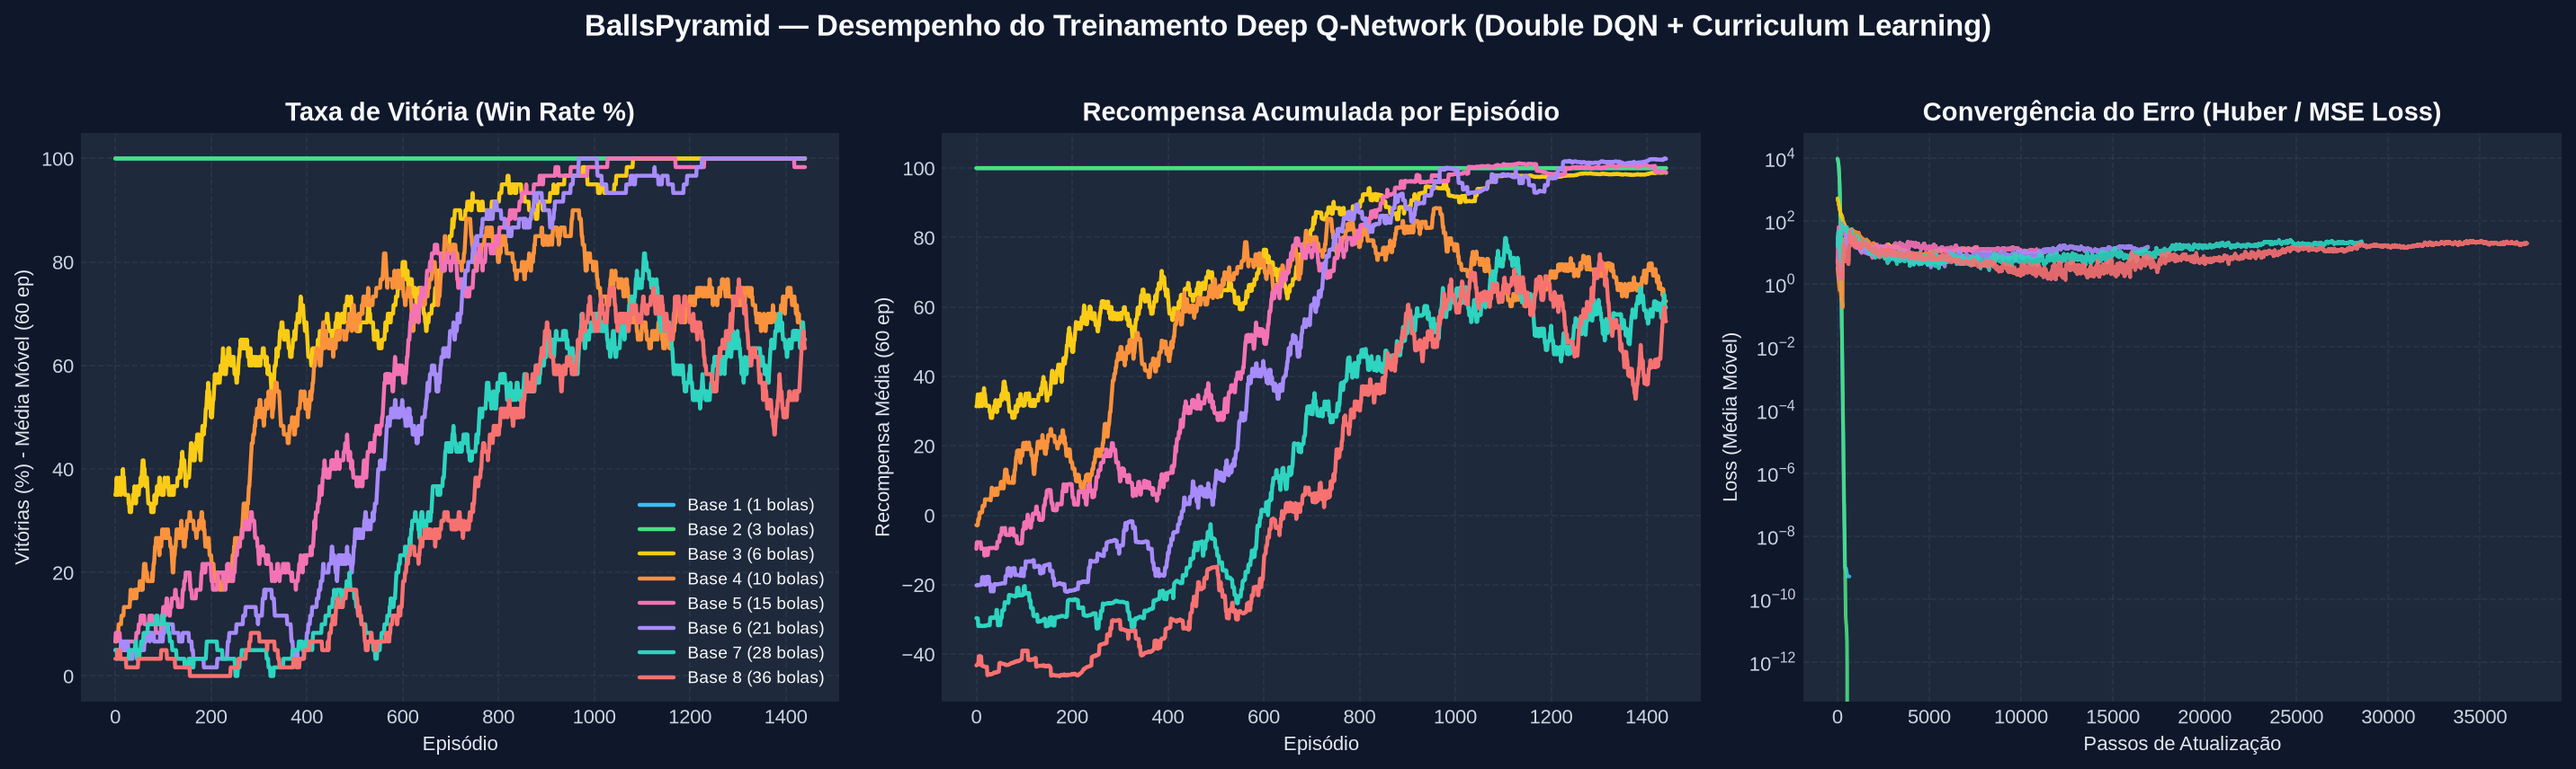
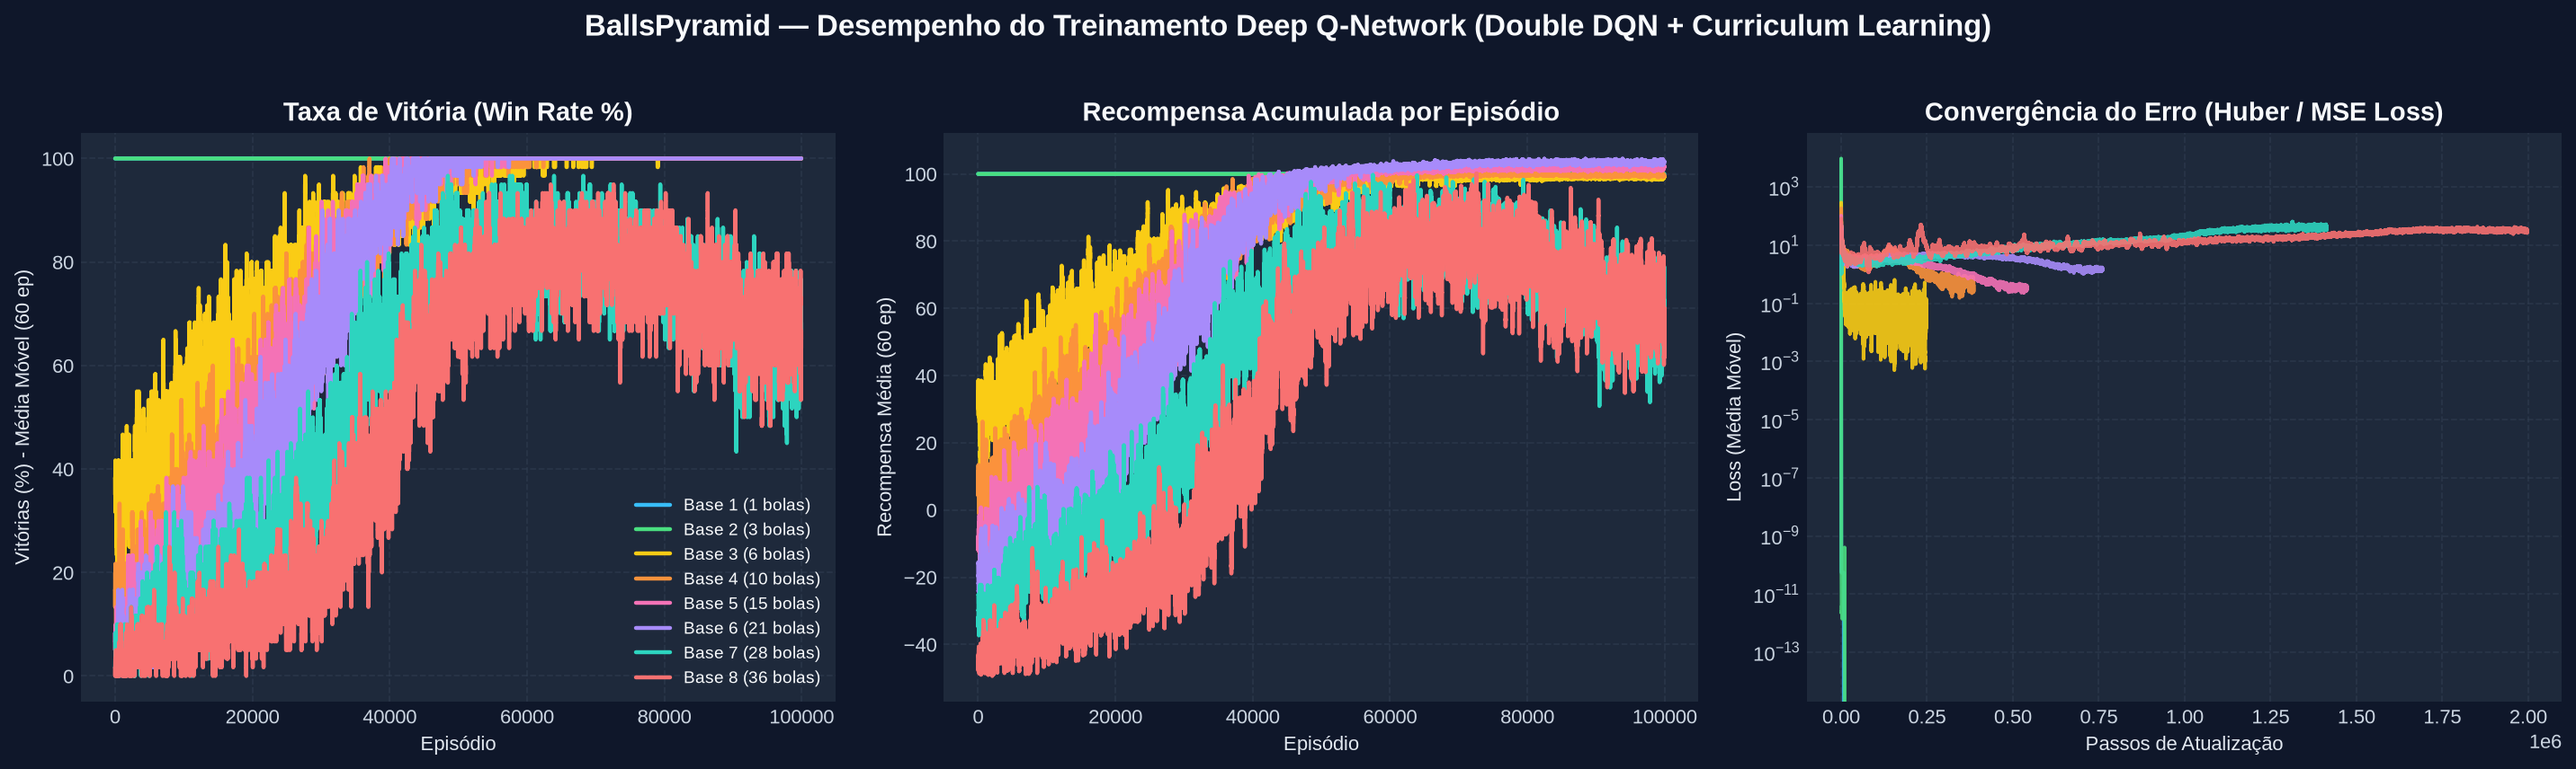
feat: better reward policy with GF2 and more memory capacity

diff --git a/ballsAI.py b/ballsAI.py
@@ -174,15 +174,13 @@ class Game:
 
         pivot_row = 0
 
-        def swap_row(idx_row1, idx_row2):
-            aux = augmented_matrix[idx_row1]
-            augmented_matrix[idx_row1] = augmented_matrix[idx_row2]
-            augmented_matrix[idx_row2] = aux
-
         for col in range(0, len(self.balls)):
             for r in range(pivot_row, len(self.balls)):
                 if augmented_matrix[r][col] == 1:
-                    swap_row(pivot_row, r)
+                    # Swap rows
+                    aux = augmented_matrix[pivot_row]
+                    augmented_matrix[pivot_row] = augmented_matrix[r]
+                    augmented_matrix[r] = aux
                     
                     for l in range(0, len(self.balls)):
                         if l != pivot_row and augmented_matrix[l][col] == 1:
@@ -245,7 +243,7 @@ class Game:
             # IA jogando passo a passo (1 passo a cada 300ms)
             if self.solving:
                 now = pygame.time.get_ticks()
-                if not self.is_done():
+                if not self.is_done() and self.is_solvable():
                     if now - self.last_ai_step_time >= 300:
                         actions = self.get_actions()
                         action = max_action(
@@ -298,17 +296,48 @@ class Game:
 
         return self.state, self.is_done()
 
+    def clicks_remaining(self):
+            """
+            Usa o mesmo escalonamento de is_solvable() e soma quantos pivôs têm 1
+            na última coluna (quantidade de cliques que faltam para resolver).
+            """
+            b = [0 if s == 1 else 1 for s in self.state]
+  
+            augmented_matrix = [row + [b_i] for row, b_i in zip(self.adj_matrix, b)]
+  
+            pivot_row = 0                
+  
+            for col in range(0, len(self.balls)):
+                for r in range(pivot_row, len(self.balls)):
+                    if augmented_matrix[r][col] == 1:
+                        # Swap rows
+                        aux = augmented_matrix[pivot_row]
+                        augmented_matrix[pivot_row] = augmented_matrix[r]
+                        augmented_matrix[r] = aux
+  
+                        for l in range(0, len(self.balls)):
+                            if l != pivot_row and augmented_matrix[l][col] == 1:
+                                for c in range(0, len(self.balls) + 1):
+                                    augmented_matrix[l][c] = augmented_matrix[l][c] ^ augmented_matrix[pivot_row][c] 
+  
+                        pivot_row += 1 
+                        break
+  
+            return sum(augmented_matrix[r][len(self.balls)] for r in range(0, pivot_row))
+
     def step(self, action):
-        n_black = sum(self.state)
+        dist_antes = self.clicks_remaining()
         next_state, terminated = self.play_step(action)
-        new_blacks = sum(next_state)
+        dist_depois = self.clicks_remaining()
 
         self.steps += 1
 
         if terminated:
             reward = 100
-        else:
-            reward = new_blacks - n_black - 0.5
+        elif dist_antes > dist_depois:
+            reward = 2
+        else: 
+            reward = -3
 
         truncated = False
         if self.steps >= self.max_steps:

diff --git a/train.py b/train.py
@@ -8,14 +8,14 @@ import torch, torch.nn as nn, torch.optim as optim
 import matplotlib.pyplot as plt
 
 
-EPISODES = 1500
+EPISODES = 100000
 MAX_BALLS = 8
 ALPHA = 0.001
 GAMMA = 0.95
 INITIAL_EPSILON = 1.0
 FINAL_EPSILON = 0.05
 DECAY = (INITIAL_EPSILON - FINAL_EPSILON) / (EPISODES * 0.75)
-CAPACITY = 15000
+CAPACITY = 200000
 BATCH_SZ = 64
 
 class BallsAgent:
@@ -125,7 +125,11 @@ class BallsAgent:
         # What's the best we could do from the next state using Double DQN?
         # (Zero if episode terminated - no future rewards possible)
         with torch.no_grad():
-            best_next_actions = self.policy_net(next_states).argmax(1, keepdim=True)
+            next_q_policy = self.policy_net(next_states).clone()
+            if next_q_policy.size(1) > 1:
+                # Bloqueia a ação que acabou de ser tomada (evita ping-pong fantasma no alvo de Bellman)
+                next_q_policy.scatter_(1, actions.unsqueeze(1), -float("inf"))
+            best_next_actions = next_q_policy.argmax(1, keepdim=True)
             max_next_q = self.target_net(next_states).gather(1, best_next_actions).squeeze(1)
             future_q_value = (1 - terminateds) * max_next_q
 
@@ -235,7 +239,7 @@ def train(agent: BallsAgent, game: Game):
 
     for episode in tqdm(range(EPISODES)):
         # Curriculum Learning: começa com desafios de 1 clique e sobe até embaralhamento completo
-        progress = episode / EPISODES
+        progress = min(1, episode / (EPISODES * 0.5)) #Chegar na dificuldade máxima na metade dos episódios
         current_max_clicks = max(1, int(np.ceil(progress * max_scramble)))
         obs, info = game.reset(game.radius, scramble_clicks=current_max_clicks)
         done = False
@@ -262,7 +266,7 @@ def train(agent: BallsAgent, game: Game):
         # Reduce exploration rate (agent becomes less random over time)
         agent.decay_epsilon()
 
-        if episode % 10 == 0:
+        if episode % 200 == 0:
             agent.target_net.load_state_dict(agent.policy_net.state_dict())
 
     metrics = {
